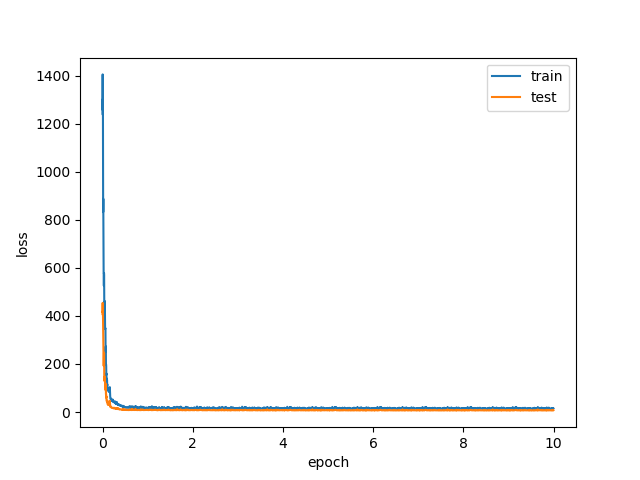
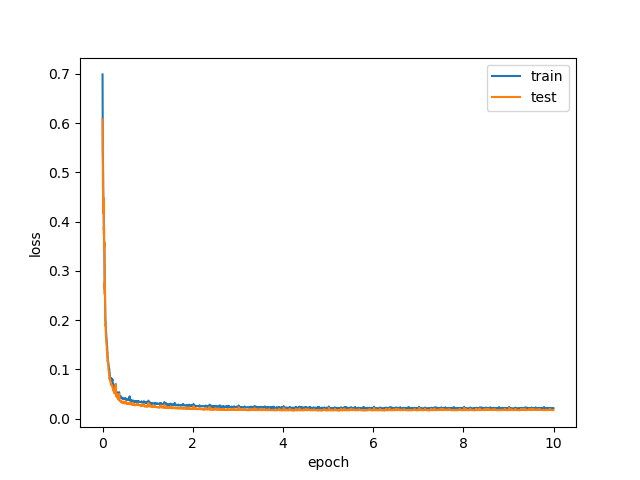
clean up

diff --git a/channel_geom_nn.py b/channel_geom_nn.py
@@ -12,17 +12,19 @@ df = pd.read_csv('data/mcelroy_dataclean.csv') # read data set using pandas
 # df = pd.read_csv('data/combined.csv') # read data set using pandas
 # df = pd.read_csv('data/combined_modified.csv') # read data set using pandas
 # df = pd.read_csv('data/combined_modified_cut.csv') # read data set using pandas
-df = df.dropna(inplace=False)  # Remove all nan entries.
+df = df.dropna(inplace = False)  # Remove all nan entries.
+
 print('Data summary:\n')
 print(df.describe(), '\n\n') # Overview of dataset
 
 # subset for train and test and rescale all values
 df_train, df_test = train_test_split(df, test_size=0.30)
 
-scaler = MinMaxScaler() # For normalizing dataset
-
 # we want to predict the H and B given Qbf, S, D50
-# y is output and x is features
+# y is output and x is input features
+
+# do some normalization
+scaler = MinMaxScaler() # For normalizing dataset
 
 # min max normalization
 # X_train = scaler.fit_transform(df_train.drop(['Bbf.m', 'Hbf.m'], axis=1).values)
@@ -64,7 +66,9 @@ normed = False
 # logged = False
 # normed = False
 
+# set up data for mini-batching during training
 batch_size = 1
+# batch_size = 2
 ds_train = tf.data.Dataset.from_tensor_slices((X_train, y_train)).repeat().batch(batch_size)
 it_train = ds_train.make_one_shot_iterator()
 xs, ys = it_train.get_next()
@@ -95,14 +99,14 @@ def denormalize(df, norm_data):
         return new
 
 
-def neural_net_model(X_data, input_dim):
+def nn_model(X_data, input_dim):
     """
-    neural_net_model is function applying 2 hidden layer feed forward neural net.
-    Weights and biases are abberviated as W_1,W_2 and b_1, b_2 
-    These are variables with will be updated during training.
+    nn_model constructs the neural network model. 
+    It can be a 1 layer or 2 layer model, with n_nodes.
+    Weights and biases are abberviated as W_1, W_2 and b_1, b_2 
     """
-    
-    n_nodes = 2
+
+    n_nodes = 3
 
     # layer 1 multiplying and adding bias then activation function
     W_1 = tf.Variable(tf.random_uniform([input_dim, n_nodes], dtype='float64'))
@@ -124,21 +128,18 @@ def neural_net_model(X_data, input_dim):
     W_O = tf.Variable(tf.random_uniform([n_nodes, 2], dtype = 'float64')) # 2 because there are two outputs
     b_O = tf.Variable(tf.zeros([2], dtype = 'float64'))
     output = tf.add(tf.matmul(layer_1, W_O), b_O)
-    # output = tf.pow(tf.matmul(layer_1, W_O), b_O)
+    # output = tf.add(tf.matmul(layer_2, W_O), b_O)
 
     return output, W_O
 
 
-# xs = tf.placeholder("float", [None, X_train.shape[1]], name='x')
-# ys = tf.placeholder("float", [None, y_train.shape[1]], name='y')
-
 # the model
-output, W_O = neural_net_model(xs, X_train.shape[1])
+output, W_O = nn_model(xs, X_train.shape[1])
 
 # mean squared error cost function
-loss = tf.reduce_sum(tf.square(output - ys))
+# loss = tf.reduce_sum(tf.square(output - ys))
 # loss = tf.reduce_mean(tf.square(output - ys))
-# loss = tf.losses.mean_squared_error(output, ys)
+loss = tf.losses.mean_squared_error(output, ys)
 
 # Gradinent Descent optimiztion just discussed above for updating weights and biases
 learning_rate = 0.01
@@ -158,22 +159,12 @@ with tf.Session() as sess:
 
     writer = tf.summary.FileWriter("logs/graph", sess.graph)
 
-    saver = tf.train.Saver()
-    #saver.restore(sess,'channel_geom_nn.ckpt')
-
-    # batcher = tf.train.batch(, batch_size=10, allow_smaller_final_batch = True)
-
     it = 0
     n_epoch = 10
     n_batch_per_epoch = int( np.floor(X_train.shape[0] / batch_size) )
     for i in range(n_epoch):
         for j in range(n_batch_per_epoch):
-            # Run loss and train with each sample (1 sample per batch)
-            # sess.run([loss, train], feed_dict = {xs:X_train[j,:].reshape(1, X_train.shape[1]), 
-            #                                      ys:y_train[j,:].reshape(1, y_train.shape[1])})
-
-            # Run loss and train with each sample (10 samples per batch)
-            # batch_x, batch_y = batcher.next_batch(batch_size)
+            # Run loss and train with each batch
             sess.run([loss, train])
 
             # keep track of the loss
@@ -182,10 +173,6 @@ with tf.Session() as sess:
             it += 1
         
         print('Epoch:', i, ', train loss:', c_train[i*n_batch_per_epoch], ', test loss:', c_test[i*n_batch_per_epoch])
-    
-    # if input('Save model ? [Y/N]') == 'Y':
-    #     saver.save(sess,'channel_geom_nn.ckpt')
-    #     print('Model Saved')
 
     # finished training
     print('\nTraining complete.')
